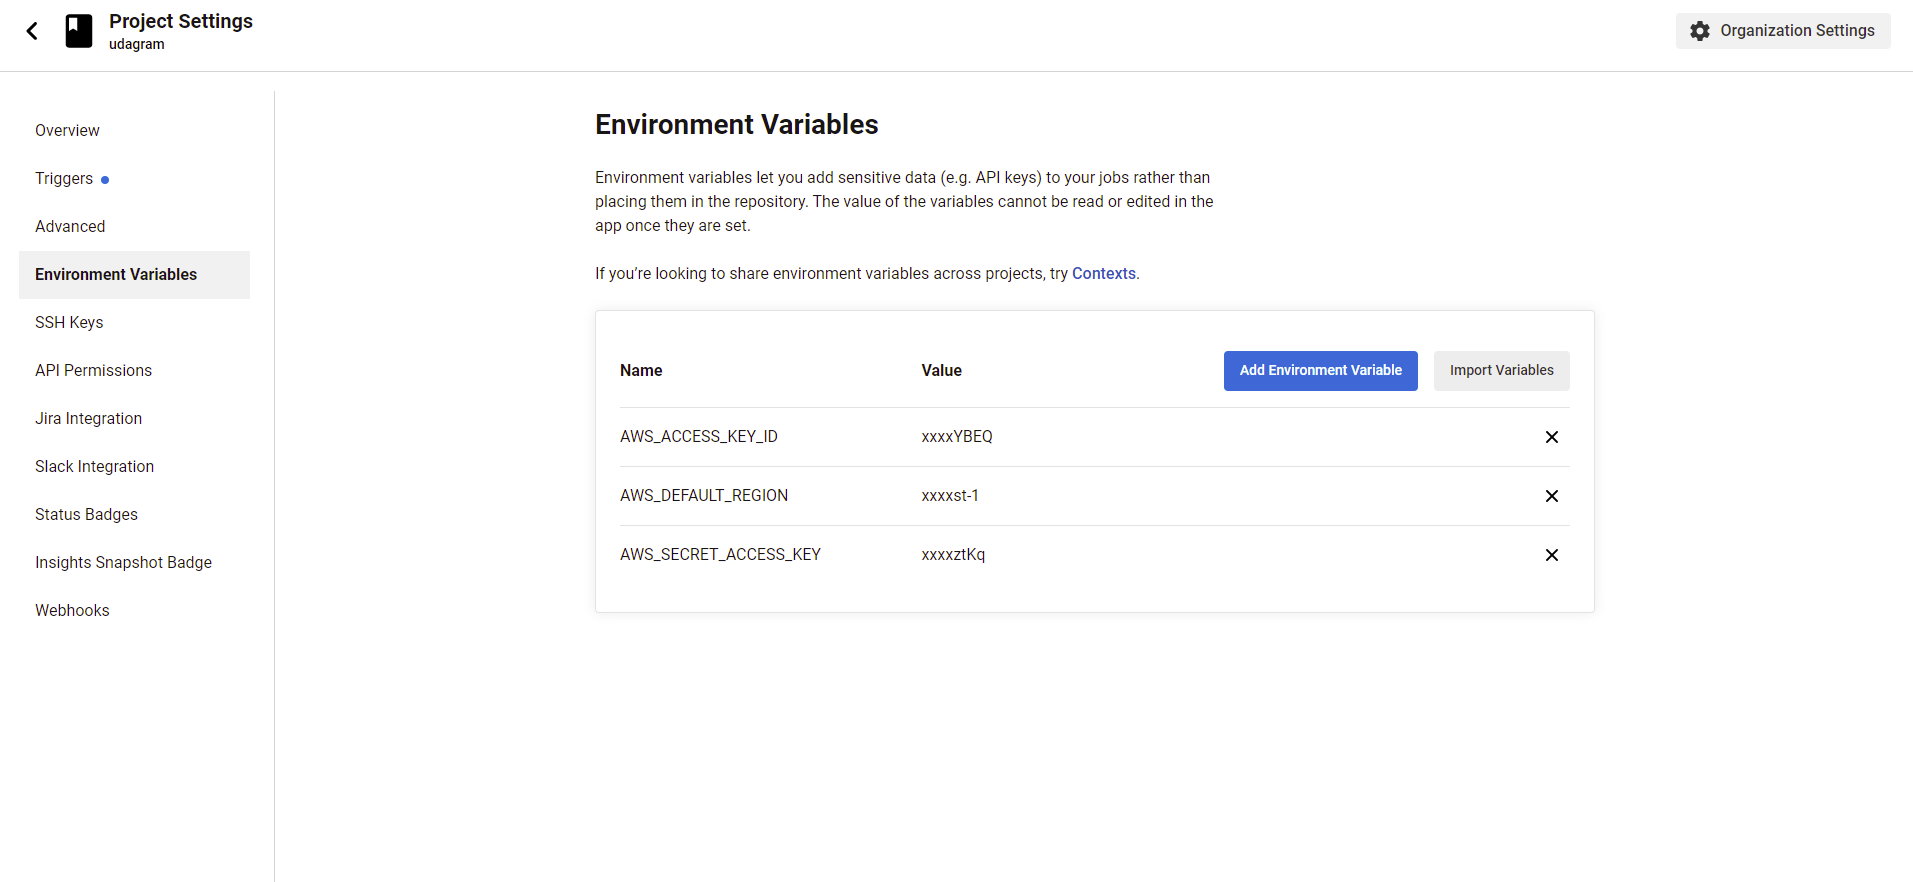
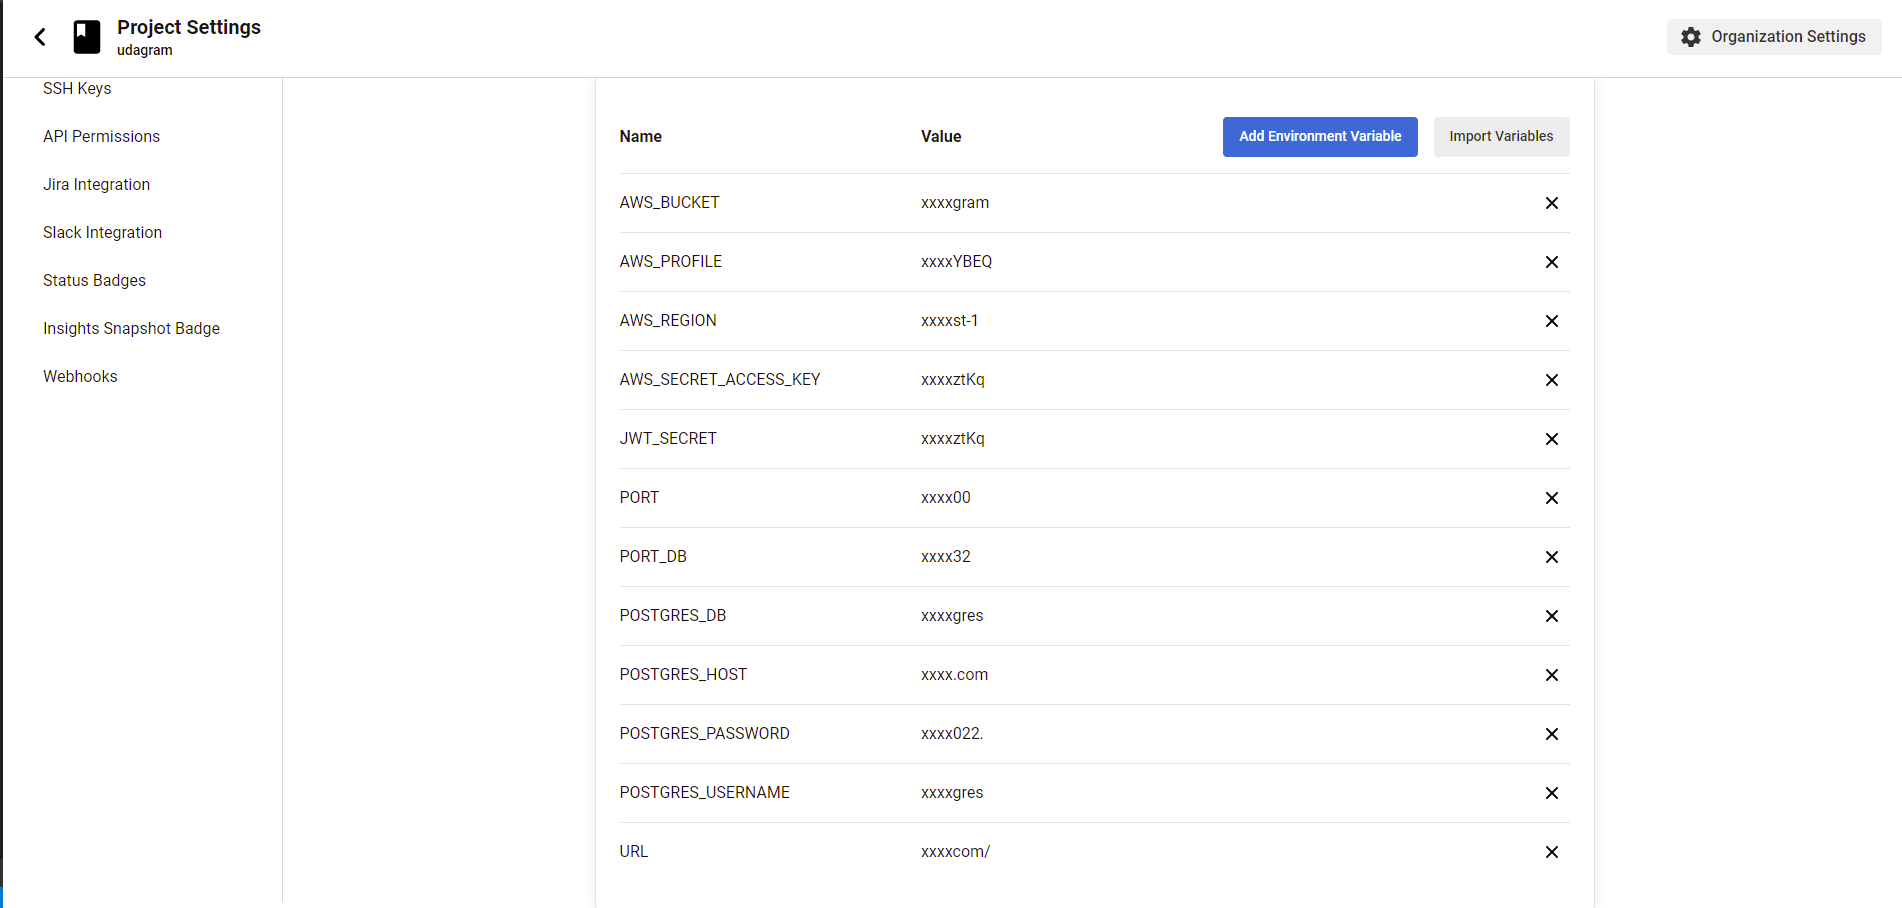
Adding deploy for backend

diff --git a/Dependencies.md b/Dependencies.md
@@ -1,0 +1,23 @@
+## Dependencies for the app
+
+- [Angular](https://angular.io/) - Single Page Application Framework
+- [Node](https://nodejs.org) - Javascript Runtime
+- [Express](https://expressjs.com/) - Javascript API Framework
+
+### Front end.
+These packages can be found in the udagram-frontend/package.json
+- [core-js](https://npm.io/package/core-js) - The Core JavaScript Framework or "CoreJS" is a client-side JavaScript library which provides tools for creating object-oriented and event-driven JavaScript code.
+- [rxjs](https://npm.io/package/core-js) - Reactive Extensions for JavaScript, or RxJS, is a reactive library used to implement reactive programming to deal with async implementation, callbacks, and event-based programs.
+
+### Back end
+These packages can be found in the udagram-api/package.json
+- [bcrypt](https://www.npmjs.com/package/bcrypt) - A library to help you hash passwords.
+- [jwt](https://www.npmjs.com/package/jsonwebtoken) - JSON Web Token (JWT) is a compact, URL-safe means of representing
+   claims to be transferred between two parties.
+- [pg](https://www.npmjs.com/package/pg) - Non-blocking PostgreSQL client for Node.js. Pure JavaScript and optional native libpq bindings.
+- [body-parser](https://www.npmjs.com/package/body-parser) - Node.js body parsing middleware.
+- [email-validator](https://www.npmjs.com/package/email-validator) - A simple module to validate an e-mail address
+- [reflect-metadata](https://www.npmjs.com/package/reflect-metadata) - reflect-metadata Allows you to do runtime reflection on types. 
+- [cors](https://developer.mozilla.org/en-US/docs/Web/HTTP/CORS) - Cross-Origin Resource Sharing (CORS) is an HTTP-header based mechanism that allows a server to indicate any origins (domain, scheme, or port) other than its own from which a browser should permit loading resources
+
+- [sequelize](https://www.npmjs.com/package/sequelize) - Sequelize is a modern TypeScript and Node. js ORM for Postgres, MySQL, MariaDB, SQLite and SQL Server, and more. Featuring solid transaction support, relations, eager and lazy loading, read replication and more.

diff --git a/README.md b/README.md
@@ -28,4 +28,9 @@ The e2e tests are using Protractor and Jasmine.
 - [Node](https://nodejs.org) - Javascript Runtime
 - [Express](https://expressjs.com/) - Javascript API Framework
 
+## Architecture diagrams
+- This project ifrastructure architecture diagram can be found in the root folder ./Udagram_infradiagram.drawio
+
+![architecture diagram](./Submission%20docs%20and%20scrshots/Screenshot%202022-04-28%20182337.png)
+
 ### This project's first version was deployed 28 april 2022.
